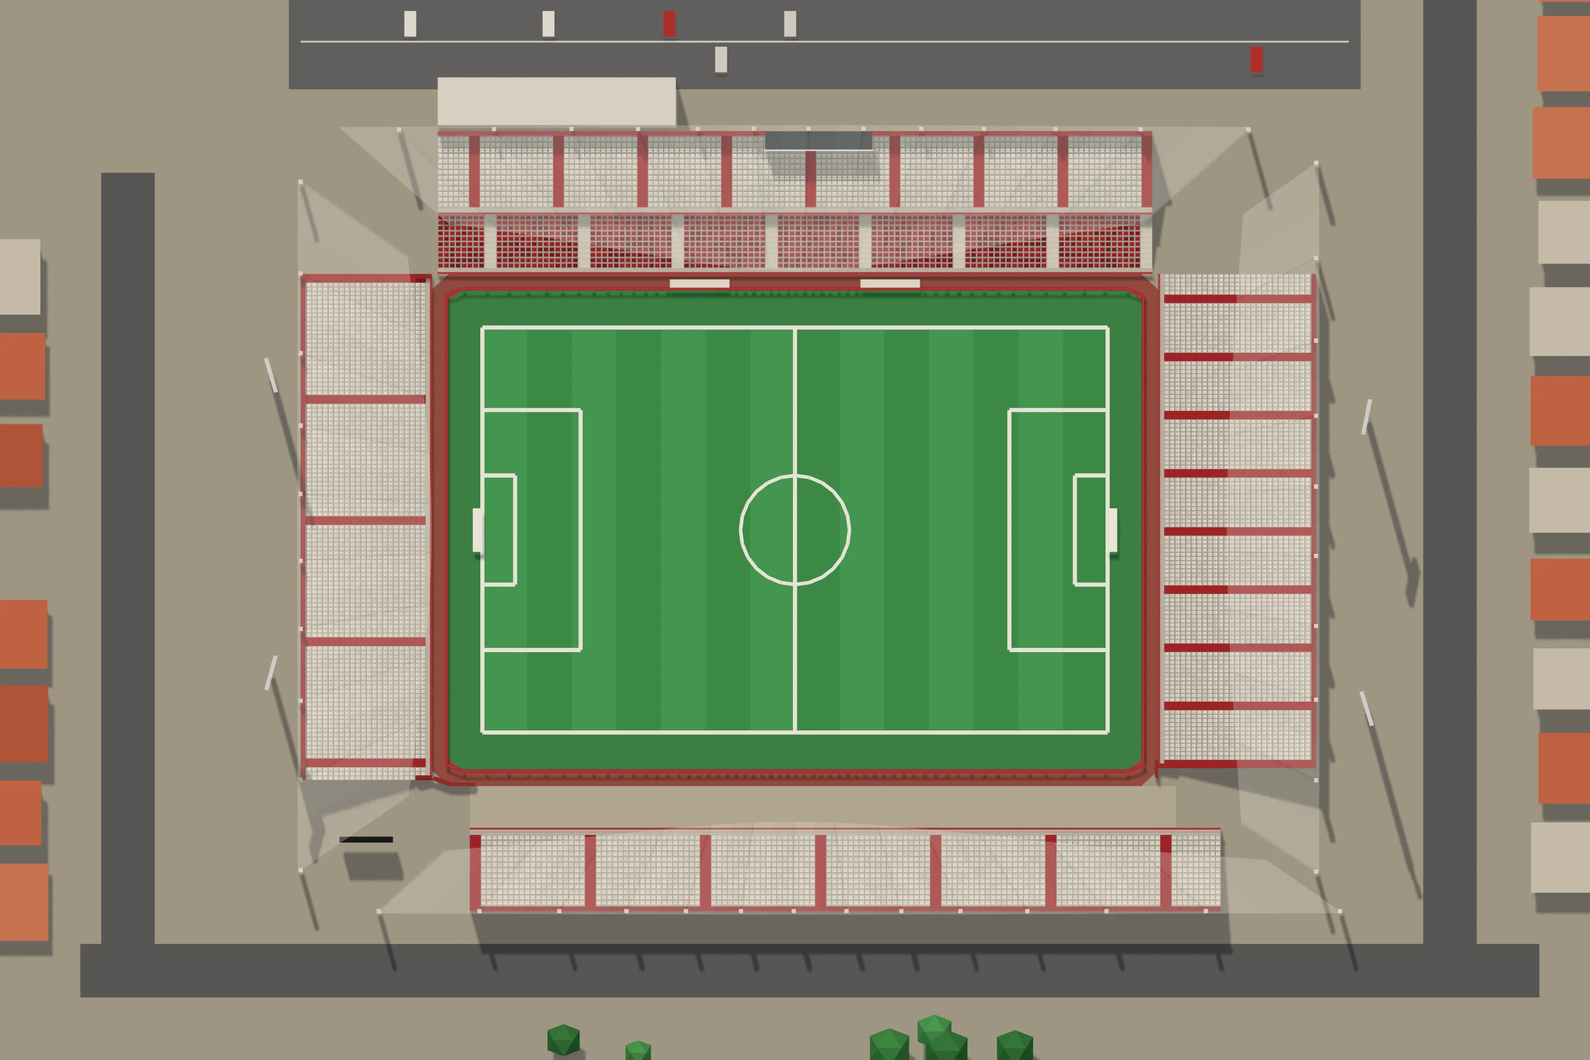
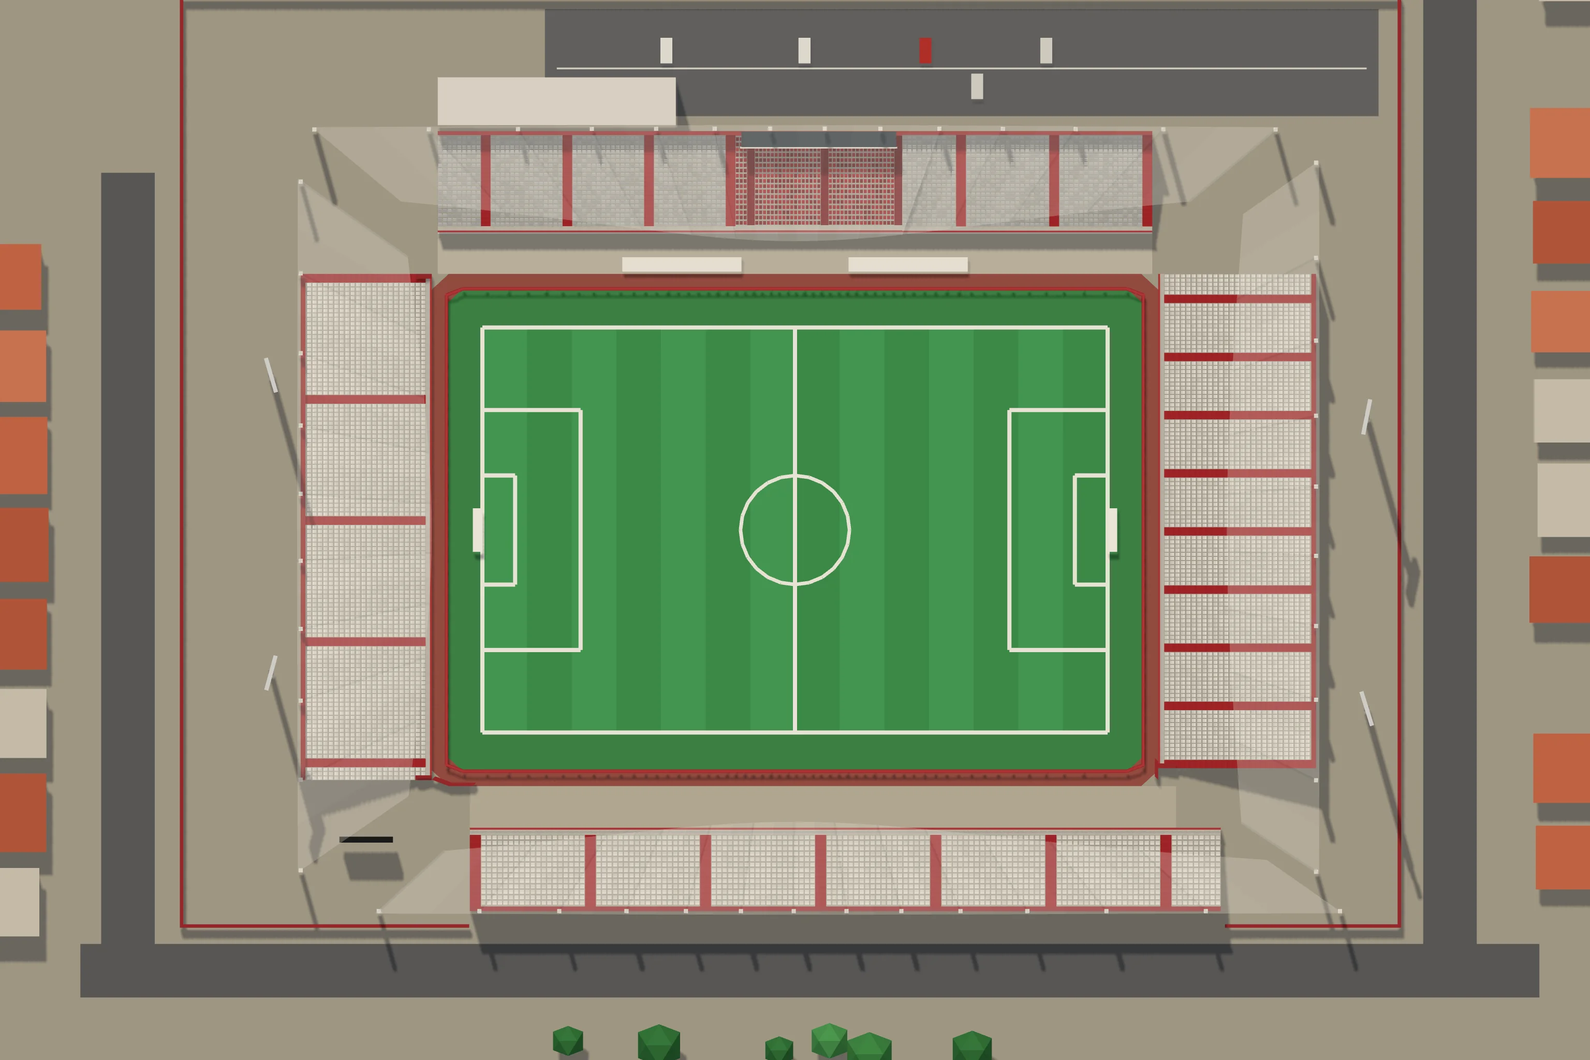
Antônio Accioly: a principal elevada, de cadeira cinza com o bloco vermelho, e o muro do terreno
Claude-Session: https://claude.ai/code/session_019hwwMAyyP7ZAvyq6wYTetr

diff --git a/cenario3d/dados/estadios_cenas.js b/cenario3d/dados/estadios_cenas.js
@@ -15609,8 +15609,8 @@ window.__ESTADIOS = {
    "visitante": 3
   },
   "foto": {
-   "imagem": "img/cenas/estadio_antonio_accyoly.webp?v=f5f41b66",
-   "mascara": "384;384;384;384;384;384;384;384;384;384;384;384;384;384;384;384;384;384;384;384;384;384;384;384;384;384;384;384;384;384;384;384;84,216,84;85,214,85;86,212,86;87,210,87;88,208,88;90,204,90;91,202,91;92,200,92;93,198,25,2,66;94,196,25,3,66;95,194,24,5,66;96,192,24,6,66;98,188,25,7,66;73,2,24,186,24,9,66;73,3,24,184,24,10,66;73,5,23,182,23,12,66;73,6,23,180,23,13,66;73,8,22,178,22,15,66;73,9,22,176,22,16,66;73,10,22,174,22,17,66;73,12,2,210,2,19,66;73,13,2,208,2,20,66;73,15,2,204,2,22,66;73,16,2,202,2,23,66;73,17,2,200,2,24,66;73,19,2,196,2,26,66;73,20,2,194,2,27,66;73,22,2,190,2,29,66;73,23,2,188,2,30,66;73,25,1,186,1,32,66;73,26,2,182,2,33,66;72,28,2,180,2,34,66;72,30,1,178,1,36,66;72,31,2,174,2,37,66;72,246,66;72,246,66;72,246,66;72,36,168,42,66;72,35,170,41,66;72,35,170,41,66;72,35,170,41,66;72,35,170,41,66;72,35,170,41,66;72,35,170,41,66;72,35,170,41,66;72,35,170,41,66;72,35,170,41,66;72,35,170,41,66;72,35,170,41,66;72,35,170,41,66;72,35,170,41,66;72,35,170,41,66;72,35,170,41,66;72,35,170,41,66;72,35,170,41,66;72,35,170,41,66;72,35,170,41,66;72,35,170,41,66;72,35,170,41,66;72,35,170,41,66;72,35,170,41,66;72,35,170,41,66;72,35,170,41,66;72,35,170,41,66;72,35,170,41,66;72,35,170,41,66;72,35,170,41,66;72,35,170,41,66;72,35,170,41,66;72,35,170,41,66;72,35,170,41,66;72,35,170,41,66;72,35,170,41,66;72,35,170,41,66;72,35,170,41,66;72,35,170,41,66;72,35,170,41,66;72,35,170,41,66;72,35,170,41,66;72,35,170,41,66;72,35,170,41,66;72,35,170,41,66;72,35,170,41,66;72,35,170,41,66;72,35,170,41,66;72,35,170,41,66;72,35,170,41,66;72,35,170,41,66;72,35,170,41,66;72,35,170,41,66;72,35,170,41,66;72,35,170,41,66;72,35,170,41,66;72,35,170,41,66;72,35,170,41,66;72,35,170,41,66;72,35,170,41,66;72,35,170,41,66;72,35,170,41,66;72,35,170,41,66;72,35,170,41,66;72,35,170,41,66;72,35,170,41,66;72,35,170,41,66;72,35,170,41,66;72,35,170,41,66;72,35,170,41,66;72,35,170,41,66;72,35,170,41,66;72,35,170,41,66;72,35,170,41,66;72,35,170,41,66;72,35,170,41,66;72,35,170,41,66;72,35,170,41,66;72,35,170,41,66;72,35,170,41,66;72,35,170,41,66;72,35,170,41,66;72,35,170,41,66;72,35,170,41,66;72,35,170,41,66;72,35,170,41,66;72,35,170,41,66;72,35,170,41,66;72,35,170,41,66;72,35,170,41,66;72,35,170,41,66;72,35,170,41,66;72,35,170,41,66;72,35,170,41,66;72,35,170,41,66;72,35,170,41,66;72,35,170,41,66;72,35,170,41,66;72,35,170,41,66;72,35,170,41,66;72,35,170,41,66;72,35,170,41,66;72,35,170,41,66;72,35,170,41,66;72,35,170,41,66;72,35,170,41,66;72,35,170,41,66;72,35,170,41,66;72,35,170,41,66;72,35,170,41,66;72,35,170,41,66;72,35,170,41,66;72,35,170,41,66;72,35,170,41,66;72,35,170,41,66;72,35,170,41,66;72,35,170,41,66;72,36,168,4,1,37,66;72,208,3,35,66;72,208,4,34,66;72,31,1,176,6,32,66;72,29,12,172,2,31,66;72,28,11,175,3,29,66;72,26,12,178,2,28,66;73,24,12,180,3,26,66;73,22,13,183,3,24,66;73,21,12,186,3,23,66;73,19,13,189,3,21,66;73,18,13,191,3,20,66;73,16,14,194,3,18,66;73,15,13,197,3,17,66;73,14,26,183,7,15,66;73,12,27,185,7,14,66;73,11,27,187,8,12,66;73,9,28,190,7,11,66;73,8,27,193,8,9,66;73,6,28,196,7,8,66;73,5,28,198,8,6,66;73,3,29,201,7,5,66;73,2,29,203,8,3,66;73,1,29,205,8,2,66;102,208,74;101,210,73;100,213,71;99,215,70;98,218,68;96,221,67;95,223,66;94,226,64;93,228,63;384;384;384;384;384;384;384;384;384;384;384;384;384;384;384;384;384;384;384;384;384;384;384;384;384;384;384;384;384;384;384;384;384;384;384;384;384"
+   "imagem": "img/cenas/estadio_antonio_accyoly.webp?v=f7d0d740",
+   "mascara": "384;384;384;384;384;384;384;384;384;384;384;384;384;384;384;384;384;384;384;384;384;384;384;384;384;384;384;384;384;384;384;384;77,230,77;79,226,79;80,224,80;81,222,81;82,220,82;83,218,83;85,214,85;86,212,86;87,210,19,2,66;88,208,19,3,66;89,206,18,5,66;91,202,19,6,66;92,200,19,7,66;73,2,18,198,18,9,66;73,3,18,196,18,10,66;73,5,17,194,17,12,66;73,6,18,190,18,13,66;73,8,17,188,17,15,66;73,9,17,186,17,16,66;73,10,17,184,17,17,66;73,12,16,182,16,19,66;73,13,17,178,17,20,66;73,15,16,176,16,22,66;73,16,16,174,16,23,66;73,17,2,200,2,24,66;73,19,2,196,2,26,66;73,20,2,194,2,27,66;73,22,2,190,2,29,66;73,23,2,188,2,30,66;73,25,1,186,1,32,66;73,26,2,182,2,33,66;72,28,2,180,2,34,66;72,30,1,178,1,36,66;72,31,2,174,2,37,66;72,246,66;72,246,66;72,246,66;72,36,168,42,66;72,35,170,41,66;72,35,170,41,66;72,35,170,41,66;72,35,170,41,66;72,35,170,41,66;72,35,170,41,66;72,35,170,41,66;72,35,170,41,66;72,35,170,41,66;72,35,170,41,66;72,35,170,41,66;72,35,170,41,66;72,35,170,41,66;72,35,170,41,66;72,35,170,41,66;72,35,170,41,66;72,35,170,41,66;72,35,170,41,66;72,35,170,41,66;72,35,170,41,66;72,35,170,41,66;72,35,170,41,66;72,35,170,41,66;72,35,170,41,66;72,35,170,41,66;72,35,170,41,66;72,35,170,41,66;72,35,170,41,66;72,35,170,41,66;72,35,170,41,66;72,35,170,41,66;72,35,170,41,66;72,35,170,41,66;72,35,170,41,66;72,35,170,41,66;72,35,170,41,66;72,35,170,41,66;72,35,170,41,66;72,35,170,41,66;72,35,170,41,66;72,35,170,41,66;72,35,170,41,66;72,35,170,41,66;72,35,170,41,66;72,35,170,41,66;72,35,170,41,66;72,35,170,41,66;72,35,170,41,66;72,35,170,41,66;72,35,170,41,66;72,35,170,41,66;72,35,170,41,66;72,35,170,41,66;72,35,170,41,66;72,35,170,41,66;72,35,170,41,66;72,35,170,41,66;72,35,170,41,66;72,35,170,41,66;72,35,170,41,66;72,35,170,41,66;72,35,170,41,66;72,35,170,41,66;72,35,170,41,66;72,35,170,41,66;72,35,170,41,66;72,35,170,41,66;72,35,170,41,66;72,35,170,41,66;72,35,170,41,66;72,35,170,41,66;72,35,170,41,66;72,35,170,41,66;72,35,170,41,66;72,35,170,41,66;72,35,170,41,66;72,35,170,41,66;72,35,170,41,66;72,35,170,41,66;72,35,170,41,66;72,35,170,41,66;72,35,170,41,66;72,35,170,41,66;72,35,170,41,66;72,35,170,41,66;72,35,170,41,66;72,35,170,41,66;72,35,170,41,66;72,35,170,41,66;72,35,170,41,66;72,35,170,41,66;72,35,170,41,66;72,35,170,41,66;72,35,170,41,66;72,35,170,41,66;72,35,170,41,66;72,35,170,41,66;72,35,170,41,66;72,35,170,41,66;72,35,170,41,66;72,35,170,41,66;72,35,170,41,66;72,35,170,41,66;72,35,170,41,66;72,35,170,41,66;72,35,170,41,66;72,35,170,41,66;72,35,170,41,66;72,35,170,41,66;72,35,170,41,66;72,35,170,41,66;72,35,170,41,66;72,35,170,41,66;72,35,170,41,66;72,35,170,41,66;72,35,170,41,66;72,36,168,4,1,37,66;72,208,3,35,66;72,208,4,34,66;72,31,1,176,6,32,66;72,29,12,172,2,31,66;72,28,11,175,3,29,66;72,26,12,178,2,28,66;73,24,12,180,3,26,66;73,22,13,183,3,24,66;73,21,12,186,3,23,66;73,19,13,189,3,21,66;73,18,13,191,3,20,66;73,16,14,194,3,18,66;73,15,13,197,3,17,66;73,14,26,183,7,15,66;73,12,27,185,7,14,66;73,11,27,187,8,12,66;73,9,28,190,7,11,66;73,8,27,193,8,9,66;73,6,28,196,7,8,66;73,5,28,198,8,6,66;73,3,29,201,7,5,66;73,2,29,203,8,3,66;73,1,29,205,8,2,66;102,208,74;101,210,73;100,213,71;99,215,70;98,218,68;96,221,67;95,223,66;94,226,64;93,228,63;384;384;384;384;384;384;384;384;384;384;384;384;384;384;384;384;384;384;384;384;384;384;384;384;384;384;384;384;384;384;384;384;384;384;384;384;384"
   },
   "cena": {
    "nome": "Antonio Accyoly",
@@ -15694,7 +15694,7 @@ window.__ESTADIOS = {
      "lado": "mandante",
      "entrada": "portao_mandante",
      "x": 1536,
-     "y": 467
+     "y": 375
     },
     {
      "id": "visitante1",
@@ -15798,28 +15798,28 @@ window.__ESTADIOS = {
      "id": "canto_1",
      "rot": "GRADE DO ESCANTEIO",
      "de": {
-      "x": 2082,
-      "y": 555
+      "x": 2121,
+      "y": 556
      },
      "ate": {
-      "x": 2251,
-      "y": 410
+      "x": 2258,
+      "y": 446
      },
-     "modulos": 8,
+     "modulos": 6,
      "espessura": 10
     },
     {
      "id": "canto_2",
      "rot": "GRADE DO ESCANTEIO",
      "de": {
-      "x": 990,
-      "y": 555
+      "x": 951,
+      "y": 556
      },
      "ate": {
-      "x": 821,
-      "y": 410
+      "x": 814,
+      "y": 446
      },
-     "modulos": 8,
+     "modulos": 6,
      "espessura": 10
     },
     {

diff --git a/cenario3d/planta.html b/cenario3d/planta.html
@@ -289,24 +289,24 @@ button:focus-visible, input:focus-visible { outline: 2px solid var(--selecao); o
 
 <script type="module">
 import * as THREE from 'https://cdn.jsdelivr.net/npm/three@0.160.0/build/three.module.min.js';
-import { planoDaCasa, montarCasa, juntarBlocos, lugarDoDecalque, placasDoLote, segmentosDoMuro, carrosDoEstacionamento, portaoDoEstacionamento } from './js/casas3d.js?v=46c26ce562';
-import { montarModelos } from './js/modelos3d.js?v=46c26ce562';
-import { moldeDaPeca, comTransformador } from './js/props3d.js?v=46c26ce562';
-import { ATLAS } from './js/modelos_atlas.js?v=46c26ce562';
-import { Construtor, sorteio } from './js/construtor3d.js?v=46c26ce562';
-import { gerarProposta, MAPAS, MAPA_DO_PORTE, RUA, LONGE_DO_ESTADIO_M, cisaoDaPraca, VAO_CIDADES_M, PRAIA_A_MAIS } from './js/proposta.js?v=46c26ce562';
-import { montarSede, nivelQueCabe } from './js/sede3d.js?v=46c26ce562';
-import { onibus as onibusDetalhe, juntar as juntarDetalhe } from './js/detalhe3d.js?v=46c26ce562';
-import { montarLoteDeVeraneio, plantaDoLote, festaNoMundo, noMundoDoLote, cenaDaFesta, detalheDaCasaDaFesta } from './js/veraneio3d.js?v=46c26ce562';
-import { montarCaravana, cenaDaCaravana } from './js/caravana3d.js?v=46c26ce562';
-import { montarEstacao, montarTunel, montarCarro, TREM } from './js/metro3d.js?v=46c26ce562';
-import { montarShopping, montarDelegacia, montarPraca, montarIgreja, montarEscola, montarHospital } from './js/equip3d.js?v=46c26ce562';
-import { montarEquipAntigo, TIPOS_ANTIGOS } from './js/equip_antigo3d.js?v=46c26ce562';
-import { PECAS_PRAIA, montarPecaDaPraia } from './js/praia3d.js?v=46c26ce562';
-import { ESPECIES_LP, FLORA_LP, montarArvoreLowpoly, montarAsDez, facesDaArvore, especieLowpolyDe } from './js/arvores_lowpoly.js?v=46c26ce562';
-import { plantarMato, montarMato, LONGE_M, DENSIDADE, LADRILHO_M } from './js/mato3d.js?v=46c26ce562';
-import { ESTADIOS_JOGO, montarEstadioJogo, glbDoEstadio, cortarEstadio, plantaDoEstadio, modeloDaLotacao, nomeDoLetreiro, nomeComAcento, marcaDoEstadio, BOCAS_DOS_PORTOES, BILHETERIAS_DA_RUA } from './js/estadios3d.js?v=46c26ce562';
-import { PECAS_AMBULANTES, montarAmbulante } from './js/ambulantes3d.js?v=46c26ce562';
+import { planoDaCasa, montarCasa, juntarBlocos, lugarDoDecalque, placasDoLote, segmentosDoMuro, carrosDoEstacionamento, portaoDoEstacionamento } from './js/casas3d.js?v=df50417538';
+import { montarModelos } from './js/modelos3d.js?v=df50417538';
+import { moldeDaPeca, comTransformador } from './js/props3d.js?v=df50417538';
+import { ATLAS } from './js/modelos_atlas.js?v=df50417538';
+import { Construtor, sorteio } from './js/construtor3d.js?v=df50417538';
+import { gerarProposta, MAPAS, MAPA_DO_PORTE, RUA, LONGE_DO_ESTADIO_M, cisaoDaPraca, VAO_CIDADES_M, PRAIA_A_MAIS } from './js/proposta.js?v=df50417538';
+import { montarSede, nivelQueCabe } from './js/sede3d.js?v=df50417538';
+import { onibus as onibusDetalhe, juntar as juntarDetalhe } from './js/detalhe3d.js?v=df50417538';
+import { montarLoteDeVeraneio, plantaDoLote, festaNoMundo, noMundoDoLote, cenaDaFesta, detalheDaCasaDaFesta } from './js/veraneio3d.js?v=df50417538';
+import { montarCaravana, cenaDaCaravana } from './js/caravana3d.js?v=df50417538';
+import { montarEstacao, montarTunel, montarCarro, TREM } from './js/metro3d.js?v=df50417538';
+import { montarShopping, montarDelegacia, montarPraca, montarIgreja, montarEscola, montarHospital } from './js/equip3d.js?v=df50417538';
+import { montarEquipAntigo, TIPOS_ANTIGOS } from './js/equip_antigo3d.js?v=df50417538';
+import { PECAS_PRAIA, montarPecaDaPraia } from './js/praia3d.js?v=df50417538';
+import { ESPECIES_LP, FLORA_LP, montarArvoreLowpoly, montarAsDez, facesDaArvore, especieLowpolyDe } from './js/arvores_lowpoly.js?v=df50417538';
+import { plantarMato, montarMato, LONGE_M, DENSIDADE, LADRILHO_M } from './js/mato3d.js?v=df50417538';
+import { ESTADIOS_JOGO, montarEstadioJogo, glbDoEstadio, cortarEstadio, plantaDoEstadio, modeloDaLotacao, nomeDoLetreiro, nomeComAcento, marcaDoEstadio, BOCAS_DOS_PORTOES, BILHETERIAS_DA_RUA } from './js/estadios3d.js?v=df50417538';
+import { PECAS_AMBULANTES, montarAmbulante } from './js/ambulantes3d.js?v=df50417538';
 
 const $ = id => document.getElementById(id);
 const aviso = $('aviso');
@@ -323,25 +323,25 @@ function carregarScript(src) {
 }
 window.TO = window.TO || { dados: {} };
 try {
-  await carregarScript('dados/torcidas.js?v=46c26ce562');
-  await carregarScript('dados/times.js?v=46c26ce562');
-  await carregarScript('dados/cena_estadio.js?v=46c26ce562');
-  await carregarScript('dados/cidades.js?v=46c26ce562');
-  await carregarScript('dados/estadios.js?v=46c26ce562');
-  await carregarScript('dados/escudos.js?v=46c26ce562');
+  await carregarScript('dados/torcidas.js?v=df50417538');
+  await carregarScript('dados/times.js?v=df50417538');
+  await carregarScript('dados/cena_estadio.js?v=df50417538');
+  await carregarScript('dados/cidades.js?v=df50417538');
+  await carregarScript('dados/estadios.js?v=df50417538');
+  await carregarScript('dados/escudos.js?v=df50417538');
   /* o manifesto das faixas de verdade (a arte do dono, 29/09/2026): a arquibancada estende a da torcida */
-  await carregarScript('dados/faixas.js?v=46c26ce562').catch(() => {});
+  await carregarScript('dados/faixas.js?v=df50417538').catch(() => {});
   /* O DOMÍNIO DOS BAIRROS (o dono, 30/09/2026): as sedes repetidas num
      bairro saem espalhadas (nos dados, na carga) e os bares ganham o
      bairro deles — o mesmo módulo do jogo (js/mundo/dominio.js) */
-  await carregarScript('js/dominio.js?v=46c26ce562').catch(() => {});
+  await carregarScript('js/dominio.js?v=df50417538').catch(() => {});
 } catch (e) {
   aviso.textContent = 'A planta da cidade não carregou (' + e.message + '). Recarregue a página.';
   throw e;
 }
 /* os PNG dos escudos, embutidos (o montar.sh gera): sem o arquivo, o
    caminho vai direto pra img/escudos/ */
-await carregarScript('dados/escudos_embutidos.js?v=46c26ce562').catch(() => {});
+await carregarScript('dados/escudos_embutidos.js?v=df50417538').catch(() => {});
 const P = TO.dados.plantaEstadio, K = P.CIDADE, M = P.METRO, CALC = K.CALC;
 /* o mapa da vez (o pequeno, o médio ou o grande, montado pra praça
    escolhida): quem monta é usarMapa, lá embaixo */

diff --git a/cenario3d/js/jogo2d.js b/cenario3d/js/jogo2d.js
@@ -17,7 +17,7 @@
    cartão da partida cai perto da hora da bola e nada do que conta o
    placar passa na frente dele.
    ========================================================= */
-import { CASCA } from './jogo_casca.js?v=46c26ce562';
+import { CASCA } from './jogo_casca.js?v=df50417538';
 
 const carregarScript = src => new Promise((ok, erro) => {
   const s = document.createElement('script');
@@ -31,18 +31,18 @@ async function montarJogo() {
   caixa.innerHTML = CASCA;
   while (caixa.firstChild) document.body.appendChild(caixa.firstChild);
   /* os escudos, as fotos das praças e as bandeiras embutidos (o `IMG()` do jogo procura aqui antes do caminho) */
-  await carregarScript('dados/imagens_jogo.js?v=46c26ce562').catch(() => {});
+  await carregarScript('dados/imagens_jogo.js?v=df50417538').catch(() => {});
   /* os estádios low-poly das cenas (ferramentas/estadios/assar.js): antes do jogo, que monta as cenas quando carrega */
-  await carregarScript('dados/estadios_cenas.js?v=46c26ce562').catch(() => {});
-  await carregarScript('dados/arredores_cenas.js?v=46c26ce562').catch(() => {});
+  await carregarScript('dados/estadios_cenas.js?v=df50417538').catch(() => {});
+  await carregarScript('dados/arredores_cenas.js?v=df50417538').catch(() => {});
   /* sem o rolo do feed: a tela entre os jogos é o portal */
   window.TO = window.TO || {};
   TO.semFeed = true;
-  await carregarScript('js/jogo.js?v=46c26ce562');
-  await carregarScript('js/portal.js?v=46c26ce562').catch(err => console.error('o portal não carregou:', err));
+  await carregarScript('js/jogo.js?v=df50417538');
+  await carregarScript('js/portal.js?v=df50417538').catch(err => console.error('o portal não carregou:', err));
   /* o boneco das cenas de imagem (os dois níveis afinados, em base64) */
-  if (!TO.dados.bonecoPertoGLB) await carregarScript('dados/boneco_glb.js?v=46c26ce562').catch(() => {});
-  await import('./bonecos3_global.js?v=46c26ce562').catch(err => console.error('o boneco das cenas não carregou:', err));
+  if (!TO.dados.bonecoPertoGLB) await carregarScript('dados/boneco_glb.js?v=df50417538').catch(() => {});
+  await import('./bonecos3_global.js?v=df50417538').catch(err => console.error('o boneco das cenas não carregou:', err));
   ligar();
 }
 

diff --git a/cenario3d/jogo.html b/cenario3d/jogo.html
@@ -9,16 +9,16 @@
 <link rel="preconnect" href="https://fonts.googleapis.com">
 <link rel="preconnect" href="https://fonts.gstatic.com" crossorigin>
 <link rel="stylesheet" href="https://fonts.googleapis.com/css2?family=Barlow+Semi+Condensed:wght@500;600;700&family=Barlow:wght@400;500;600&family=IBM+Plex+Mono:wght@400;500&display=swap">
-<link rel="stylesheet" href="css/jogo.css?v=46c26ce562">
-<link rel="stylesheet" href="css/jogo3d.css?v=46c26ce562">
-<link rel="stylesheet" href="css/portal.css?v=46c26ce562">
-<link rel="stylesheet" href="css/telas3d.css?v=46c26ce562">
+<link rel="stylesheet" href="css/jogo.css?v=df50417538">
+<link rel="stylesheet" href="css/jogo3d.css?v=df50417538">
+<link rel="stylesheet" href="css/portal.css?v=df50417538">
+<link rel="stylesheet" href="css/telas3d.css?v=df50417538">
 <style>
 [hidden] { display: none !important; }
 html, body { height: 100%; margin: 0; }
 </style>
 </head>
 <body class="jogo3d">
-<script type="module" src="js/jogo2d.js?v=46c26ce562"></script>
+<script type="module" src="js/jogo2d.js?v=df50417538"></script>
 </body>
 </html>

diff --git a/cenario3d/js/casas3d.js b/cenario3d/js/casas3d.js
@@ -60,10 +60,10 @@
    avançam (`rec`), e o letreiro, a pixação e a falha de reboco do
    bairro vão pro plano dessa parede, não pro da divisa.
    ========================================================= */
-import { Construtor, METRO, mureta, toldo, arSplit, sorteio } from './construtor3d.js?v=46c26ce562';
-import { ATLAS } from './modelos_atlas.js?v=46c26ce562';
+import { Construtor, METRO, mureta, toldo, arSplit, sorteio } from './construtor3d.js?v=df50417538';
+import { ATLAS } from './modelos_atlas.js?v=df50417538';
 /* as lojas do assalto (lojas3d.js): modelos de lote como os outros */
-import { TIPOS_LOJA, REC_LOJA, placaDaLoja } from './lojas3d.js?v=46c26ce562';
+import { TIPOS_LOJA, REC_LOJA, placaDaLoja } from './lojas3d.js?v=df50417538';
 
 /* o arquivo de cada folha, pro bairro montar o material dele */
 export const arquivoDaFolha = folha => ATLAS[folha].arquivo;

diff --git a/cenario3d/js/ambulantes3d.js b/cenario3d/js/ambulantes3d.js
@@ -27,8 +27,8 @@
    que a planta acha o lugar dela na calçada do estádio. `sol`: o meio e
    o raio da copa ([x, z, r]), que o mapa desenha de perto.
    ========================================================= */
-import { Construtor, noMundo, placasNoMundo, sorteio, esfera, unit } from './construtor3d.js?v=46c26ce562';
-import { Lugar, barra, tubo, cilindro, bloco, pano, toro, guardaSol, cadeiraPlastica, isopor, banqueta, CORES_SOL } from './praia3d.js?v=46c26ce562';
+import { Construtor, noMundo, placasNoMundo, sorteio, esfera, unit } from './construtor3d.js?v=df50417538';
+import { Lugar, barra, tubo, cilindro, bloco, pano, toro, guardaSol, cadeiraPlastica, isopor, banqueta, CORES_SOL } from './praia3d.js?v=df50417538';
 
 const AQUI = Lugar();
 const escolha = (rnd, lista) => lista[Math.floor(rnd() * lista.length) % lista.length];

diff --git a/cenario3d/js/praia3d.js b/cenario3d/js/praia3d.js
@@ -36,8 +36,8 @@
    cadeira e a mesa de plástico) servem também os ambulantes da porta do
    estádio (ambulantes3d.js), na mesma folha.
    ========================================================= */
-import { Construtor, METRO, lerp, sub, soma, esc, unit, pv, noMundo, placasNoMundo, sorteio, varrer, esfera } from './construtor3d.js?v=46c26ce562';
-import { montarArvoreLowpoly } from './arvores_lowpoly.js?v=46c26ce562';
+import { Construtor, METRO, lerp, sub, soma, esc, unit, pv, noMundo, placasNoMundo, sorteio, varrer, esfera } from './construtor3d.js?v=df50417538';
+import { montarArvoreLowpoly } from './arvores_lowpoly.js?v=df50417538';
 
 const ALTO = [0, 1, 0];
 const escolha = (rnd, lista) => lista[Math.floor(rnd() * lista.length) % lista.length];

diff --git a/cenario3d/js/modelos3d.js b/cenario3d/js/modelos3d.js
@@ -32,8 +32,8 @@
    requadro da janela, toldo, ar-condicionado. O resto é pintura.
    ========================================================= */
 import * as THREE from 'https://cdn.jsdelivr.net/npm/three@0.160.0/build/three.module.min.js';
-import { ATLAS } from './modelos_atlas.js?v=46c26ce562';
-import { Construtor, METRO, lerp, sub, soma, esc, pv, pe, unit, recuoPoligono, mureta, toldo, arSplit } from './construtor3d.js?v=46c26ce562';
+import { ATLAS } from './modelos_atlas.js?v=df50417538';
+import { Construtor, METRO, lerp, sub, soma, esc, pv, pe, unit, recuoPoligono, mureta, toldo, arSplit } from './construtor3d.js?v=df50417538';
 
 /* =======================================================
    1. A IGREJA MATRIZ

diff --git a/cenario3d/js/props3d.js b/cenario3d/js/props3d.js
@@ -26,8 +26,8 @@
    poste vira uma haste de longe; o resto, que é miúdo, some.
    ========================================================= */
 import * as THREE from 'https://cdn.jsdelivr.net/npm/three@0.160.0/build/three.module.min.js';
-import { ATLAS } from './modelos_atlas.js?v=46c26ce562';
-import { Construtor, METRO, lerp } from './construtor3d.js?v=46c26ce562';
+import { ATLAS } from './modelos_atlas.js?v=df50417538';
+import { Construtor, METRO, lerp } from './construtor3d.js?v=df50417538';
 
 /* as cores que o vértice dá pro que sai claro na folha */
 const COR_CESTO = ['#6aa33a', '#d2b53a', '#3f82ad', '#8b6a3c', '#b8452f'];

diff --git a/cenario3d/js/mato3d.js b/cenario3d/js/mato3d.js
@@ -19,8 +19,8 @@
 
    Tudo em metros; `noMundo` converte. A mesma semente dá o mesmo mato.
    ========================================================= */
-import { METRO, noMundo, sorteio } from './construtor3d.js?v=46c26ce562';
-import { facesDaArvore, especieLowpolyDe } from './arvores_lowpoly.js?v=46c26ce562';
+import { METRO, noMundo, sorteio } from './construtor3d.js?v=df50417538';
+import { facesDaArvore, especieLowpolyDe } from './arvores_lowpoly.js?v=df50417538';
 
 /* a área de chão de cada árvore (m²), por lugar */
 export const DENSIDADE = { mata: 70, cerrado: 200, caatinga: 150, sul: 90, praia: 120, cidade: 250 };

diff --git a/cenario3d/js/bonecos3_global.js b/cenario3d/js/bonecos3_global.js
@@ -14,7 +14,7 @@
    DOMContentLoaded: quem usa (a ponte, numa cena aberta pelo jogador)
    chega muito depois.
    ========================================================= */
-import { montar, desenharDeCima, desenharVitrine, limparDeCima, fotoDoTrofeu, fotoDaBriga, fotoDaCena, perdeu, bonecos } from './bonecos3_cena.js?v=46c26ce562';
+import { montar, desenharDeCima, desenharVitrine, limparDeCima, fotoDoTrofeu, fotoDaBriga, fotoDaCena, perdeu, bonecos } from './bonecos3_cena.js?v=df50417538';
 
 window.TO = window.TO || {};
 TO.diaJogo = TO.diaJogo || {};

diff --git a/cenario3d/js/bonecos3_cena.js b/cenario3d/js/bonecos3_cena.js
@@ -103,7 +103,7 @@
       numa fase sorteada (quem sai junto não sai no mesmo pé).
    ========================================================= */
 import * as THREE from 'https://cdn.jsdelivr.net/npm/three@0.160.0/build/three.module.min.js';
-import { GLTFLoader, SkeletonUtils } from './GLTFLoader.js?v=46c26ce562';
+import { GLTFLoader, SkeletonUtils } from './GLTFLoader.js?v=df50417538';
 
 /* onde o modelo mora, quando não vem embutido em base64: o detalhado
    (o do Blender) e os dois níveis afinados dele (ferramentas/afinar_boneco.mjs) */
